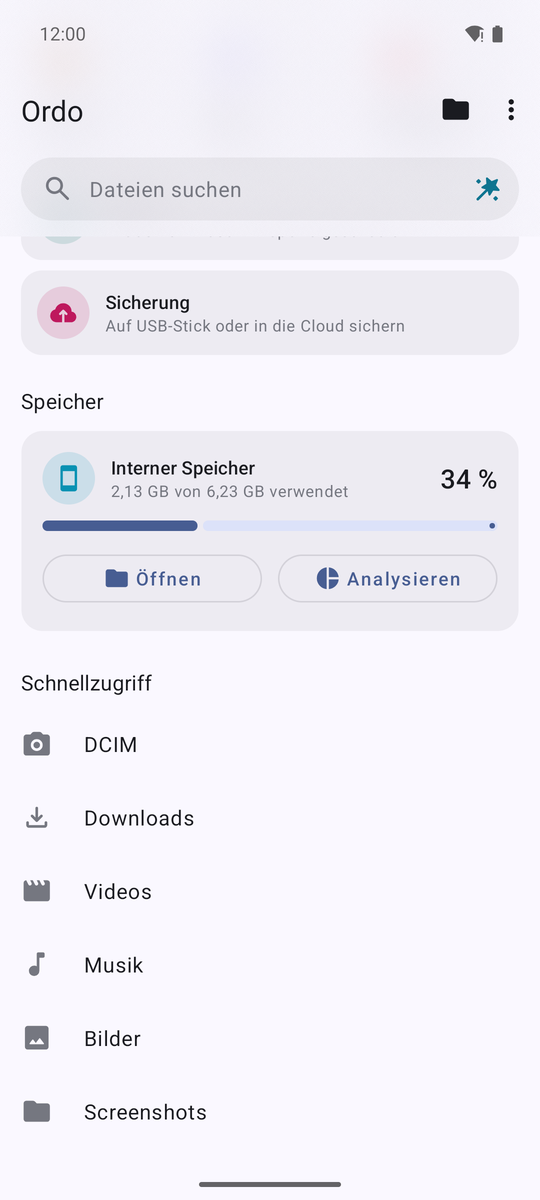
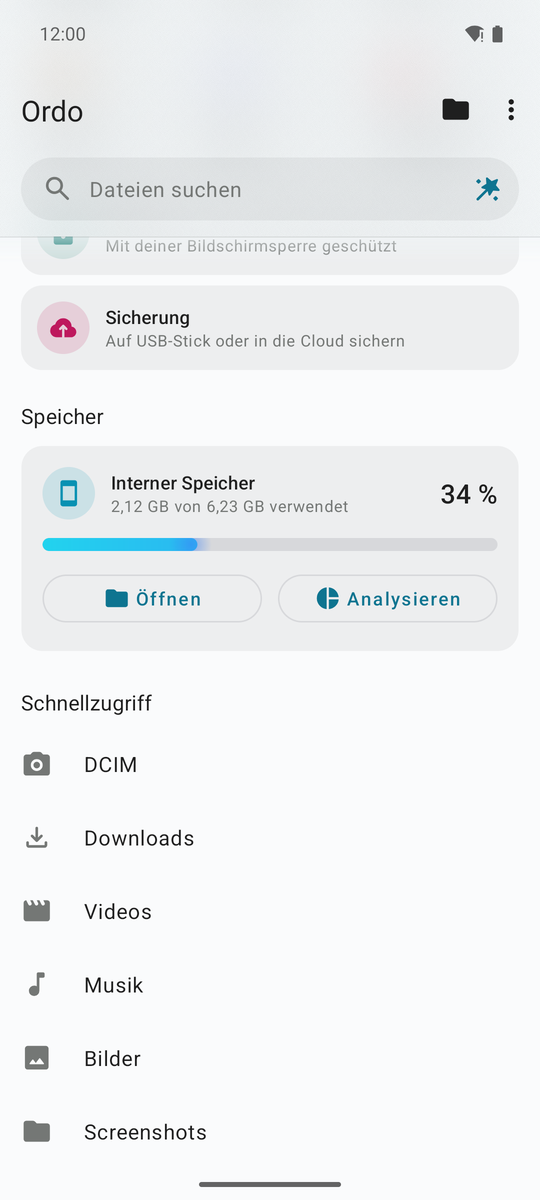
About puts Ordo's developer first; storage bars keep a gentle light; new README images
- About: "Ordo – by Belkis Aslani" under the app name and a developer row linking
  to GitHub; the Material Files credit is one row at the end, linking to the
  upstream project.
- Storage bars: after growing in, a light passes over them every 4.5 s while they
  are on screen and the window is visible (motion "full" only).
- README (EN/DE): eight screenshots in two rows - home, AI, analysis, cleanup,
  storage, music, settings, appearance; the analysis feature describes the dashboard.

Claude-Session: https://claude.ai/code/session_01MwZiGHMetnikLtK5FfgZy9

diff --git a/app/src/main/java/me/zhanghai/android/files/analysis/StackedBarView.kt b/app/src/main/java/me/zhanghai/android/files/analysis/StackedBarView.kt
@@ -32,6 +32,18 @@ class StackedBarView @JvmOverloads constructor(context: Context, attrs: Attribut
     // Only one grow or sweep runs at a time: a rebind while animating must not leave two animators on this bar.
     private var animator: ValueAnimator? = null
     private var shine = -1f
+    private val visibleRect = android.graphics.Rect()
+
+    // While on screen, the light passes over the bar again every few seconds: the bar looks alive, not frozen.
+    private val nextSweep = Runnable {
+        if (windowVisibility == VISIBLE && isShown && getGlobalVisibleRect(visibleRect)) sweep() else scheduleSweep()
+    }
+
+    private fun scheduleSweep() {
+        removeCallbacks(nextSweep)
+        if (gradient != null && me.zhanghai.android.files.ui.Motion.full) postDelayed(nextSweep, SWEEP_PAUSE_MILLIS)
+    }
+
     private val shinePaint = Paint(Paint.ANTI_ALIAS_FLAG)
     private val glowPaint = Paint(Paint.ANTI_ALIAS_FLAG)
 
@@ -55,6 +67,7 @@ class StackedBarView @JvmOverloads constructor(context: Context, attrs: Attribut
         this.parts = filtered
         this.max = newMax
         animator?.cancel()
+        removeCallbacks(nextSweep)
         shine = -1f
         if (me.zhanghai.android.files.ui.Motion.any) {
             setProgress(0f)
@@ -86,7 +99,11 @@ class StackedBarView @JvmOverloads constructor(context: Context, attrs: Attribut
             duration = 1200
             interpolator = PathInterpolator(0.4f, 0f, 0.2f, 1f)
             addUpdateListener { shine = it.animatedValue as Float; invalidate() }
-            doOnEnd { shine = -1f; invalidate() }
+            doOnEnd {
+                shine = -1f
+                invalidate()
+                scheduleSweep()
+            }
         }
         animator?.start()
     }
@@ -98,6 +115,7 @@ class StackedBarView @JvmOverloads constructor(context: Context, attrs: Attribut
 
     override fun onDetachedFromWindow() {
         super.onDetachedFromWindow()
+        removeCallbacks(nextSweep)
         // Leave the bar filled rather than half drawn when its view comes back.
         if (animator?.isRunning == true) {
             animator?.cancel()
@@ -166,5 +184,9 @@ class StackedBarView @JvmOverloads constructor(context: Context, attrs: Attribut
                 android.graphics.Shader.TileMode.CLAMP)
             canvas.drawCircle(filled - h / 2, h / 2, h * 1.6f, glowPaint)
         }
+    }
+
+    private companion object {
+        const val SWEEP_PAUSE_MILLIS = 4_500L
     }
 }

diff --git a/app/src/main/java/me/zhanghai/android/files/about/AboutFragment.kt b/app/src/main/java/me/zhanghai/android/files/about/AboutFragment.kt
@@ -13,6 +13,7 @@ import android.view.ViewGroup
 import androidx.appcompat.app.AppCompatActivity
 import androidx.core.view.isVisible
 import androidx.fragment.app.Fragment
+import me.zhanghai.android.files.R
 import me.zhanghai.android.files.databinding.AboutFragmentBinding
 import me.zhanghai.android.files.legal.LegalActivity
 import me.zhanghai.android.files.ui.LicensesDialogFragment
@@ -38,6 +39,8 @@ class AboutFragment : Fragment() {
         val activity = requireActivity() as AppCompatActivity
         activity.setSupportActionBar(binding.toolbar)
         activity.supportActionBar!!.setDisplayHomeAsUpEnabled(true)
+        binding.byDeveloperText.text = getString(R.string.about_by_developer, getString(R.string.about_developer_name))
+        binding.developerLayout.setOnClickListener { startActivitySafe(DEVELOPER_URI.createViewIntent()) }
         binding.gitHubLayout.setOnClickListener { startActivitySafe(GITHUB_URI.createViewIntent()) }
         binding.licensesLayout.setOnClickListener { LicensesDialogFragment.show(this) }
         binding.privacyPolicyLayout.isVisible = true
@@ -45,20 +48,13 @@ class AboutFragment : Fragment() {
             startActivitySafe(LegalActivity::class.createIntent())
         }
         binding.authorNameLayout.setOnClickListener {
-            startActivitySafe(AUTHOR_RESUME_URI.createViewIntent())
-        }
-        binding.authorGitHubLayout.setOnClickListener {
-            startActivitySafe(AUTHOR_GITHUB_URI.createViewIntent())
-        }
-        binding.authorTwitterLayout.setOnClickListener {
-            startActivitySafe(AUTHOR_TWITTER_URI.createViewIntent())
+            startActivitySafe(UPSTREAM_URI.createViewIntent())
         }
     }
 
     companion object {
         private val GITHUB_URI = Uri.parse("https://github.com/BEKO2210/ordo")
-        private val AUTHOR_RESUME_URI = Uri.parse("https://resume.zhanghai.me/")
-        private val AUTHOR_GITHUB_URI = Uri.parse("https://github.com/zhanghai")
-        private val AUTHOR_TWITTER_URI = Uri.parse("https://twitter.com/zhanghai95")
+        private val DEVELOPER_URI = Uri.parse("https://github.com/BEKO2210")
+        private val UPSTREAM_URI = Uri.parse("https://github.com/zhanghai/MaterialFiles")
     }
 }

diff --git a/README.de.md b/README.de.md
@@ -22,8 +22,14 @@
 <p align="center">
   <img src="docs/screenshots/de/home.png" width="24%" alt="Startseite mit zuletzt verwendeten Dateien, Kategorien, Tresor und Sicherung">
   <img src="docs/screenshots/de/ai.png" width="24%" alt="KI-Befehl mit Vorschau: 9 Fotos verschieben">
-  <img src="docs/screenshots/de/storage.png" width="24%" alt="Speicherkarten mit den Knöpfen Öffnen und Analysieren">
+  <img src="docs/screenshots/de/analysis.png" width="24%" alt="Speicheranalyse: Belegung nach Dateityp als Ring">
+  <img src="docs/screenshots/de/cleanup.png" width="24%" alt="Aufräum-Potenzial und Vorschläge mit Vorschau-Knopf, Dunkelmodus">
+</p>
+<p align="center">
+  <img src="docs/screenshots/de/storage.png" width="24%" alt="Speicherkarten mit animierten Balken und den Knöpfen Öffnen und Analysieren">
   <img src="docs/screenshots/de/audio.png" width="24%" alt="Musik mit Covern im Dunkelmodus">
+  <img src="docs/screenshots/de/settings.png" width="24%" alt="Einstellungen nach Kategorien mit farbigen Piktogrammen">
+  <img src="docs/screenshots/de/appearance.png" width="24%" alt="Aussehen: fünf Akzentfarben, Nachtmodus, Animationen, Dunkelmodus">
 </p>
 
 ## Stand
@@ -44,8 +50,9 @@ Ordo ist in Entwicklung (Version 0.2.0) und noch nicht bei Google Play. Testvers
 **Aufräumen**
 
 - Papierkorb: Gelöschtes lässt sich 30 Tage lang wiederherstellen
-- Speicheranalyse für internen Speicher, SD-Karte und USB-Stick: große Dateien, Duplikate, lange nicht genutzte
-  Dateien, alte APKs
+- Speicheranalyse für internen Speicher, SD-Karte und USB-Stick: Übersicht mit Belegung nach Dateityp,
+  Aufräum-Potenzial, Vorschlägen mit Vorschau, den größten Ordnern als Kacheln und neuen Daten pro Monat; dazu Listen
+  mit großen Dateien, Duplikaten, lange nicht genutzten Dateien und alten APKs
 - App-Verwaltung: installierte Apps ansehen, APK sichern, deinstallieren
 
 **Mit Dateien arbeiten**

diff --git a/README.md b/README.md
@@ -22,8 +22,14 @@
 <p align="center">
   <img src="docs/screenshots/en/home.png" width="24%" alt="Home screen with recent files, categories, vault and backup">
   <img src="docs/screenshots/en/ai.png" width="24%" alt="AI command with preview: move 9 photos">
-  <img src="docs/screenshots/en/storage.png" width="24%" alt="Storage cards with Open and Analyse buttons">
+  <img src="docs/screenshots/en/analysis.png" width="24%" alt="Storage analysis: usage donut by file type">
+  <img src="docs/screenshots/en/cleanup.png" width="24%" alt="Cleanup potential and suggestions with a preview button, dark mode">
+</p>
+<p align="center">
+  <img src="docs/screenshots/en/storage.png" width="24%" alt="Storage cards with animated usage bars and Open and Analyse buttons">
   <img src="docs/screenshots/en/audio.png" width="24%" alt="Music with cover art in dark mode">
+  <img src="docs/screenshots/en/settings.png" width="24%" alt="Settings sorted into categories with coloured icons">
+  <img src="docs/screenshots/en/appearance.png" width="24%" alt="Appearance settings: five accent colours, night mode, motion, dark mode">
 </p>
 
 ## Status
@@ -44,8 +50,9 @@ Ordo is in development (version 0.2.0). It is not on Google Play yet. Test build
 **Tidy up**
 
 - Trash: deleted files can be restored for 30 days
-- Storage analysis for internal storage, SD cards and USB drives: large files, duplicates, files you have not used
-  for a long time, old APKs
+- Storage analysis for internal storage, SD cards and USB drives: an overview with usage by file type, cleanup
+  potential, suggestions you can preview, the biggest folders as tiles and new data per month; plus lists of large
+  files, duplicates, files you have not used for a long time and old APKs
 - App manager: see installed apps, save their APK, uninstall
 
 **Work with files**
